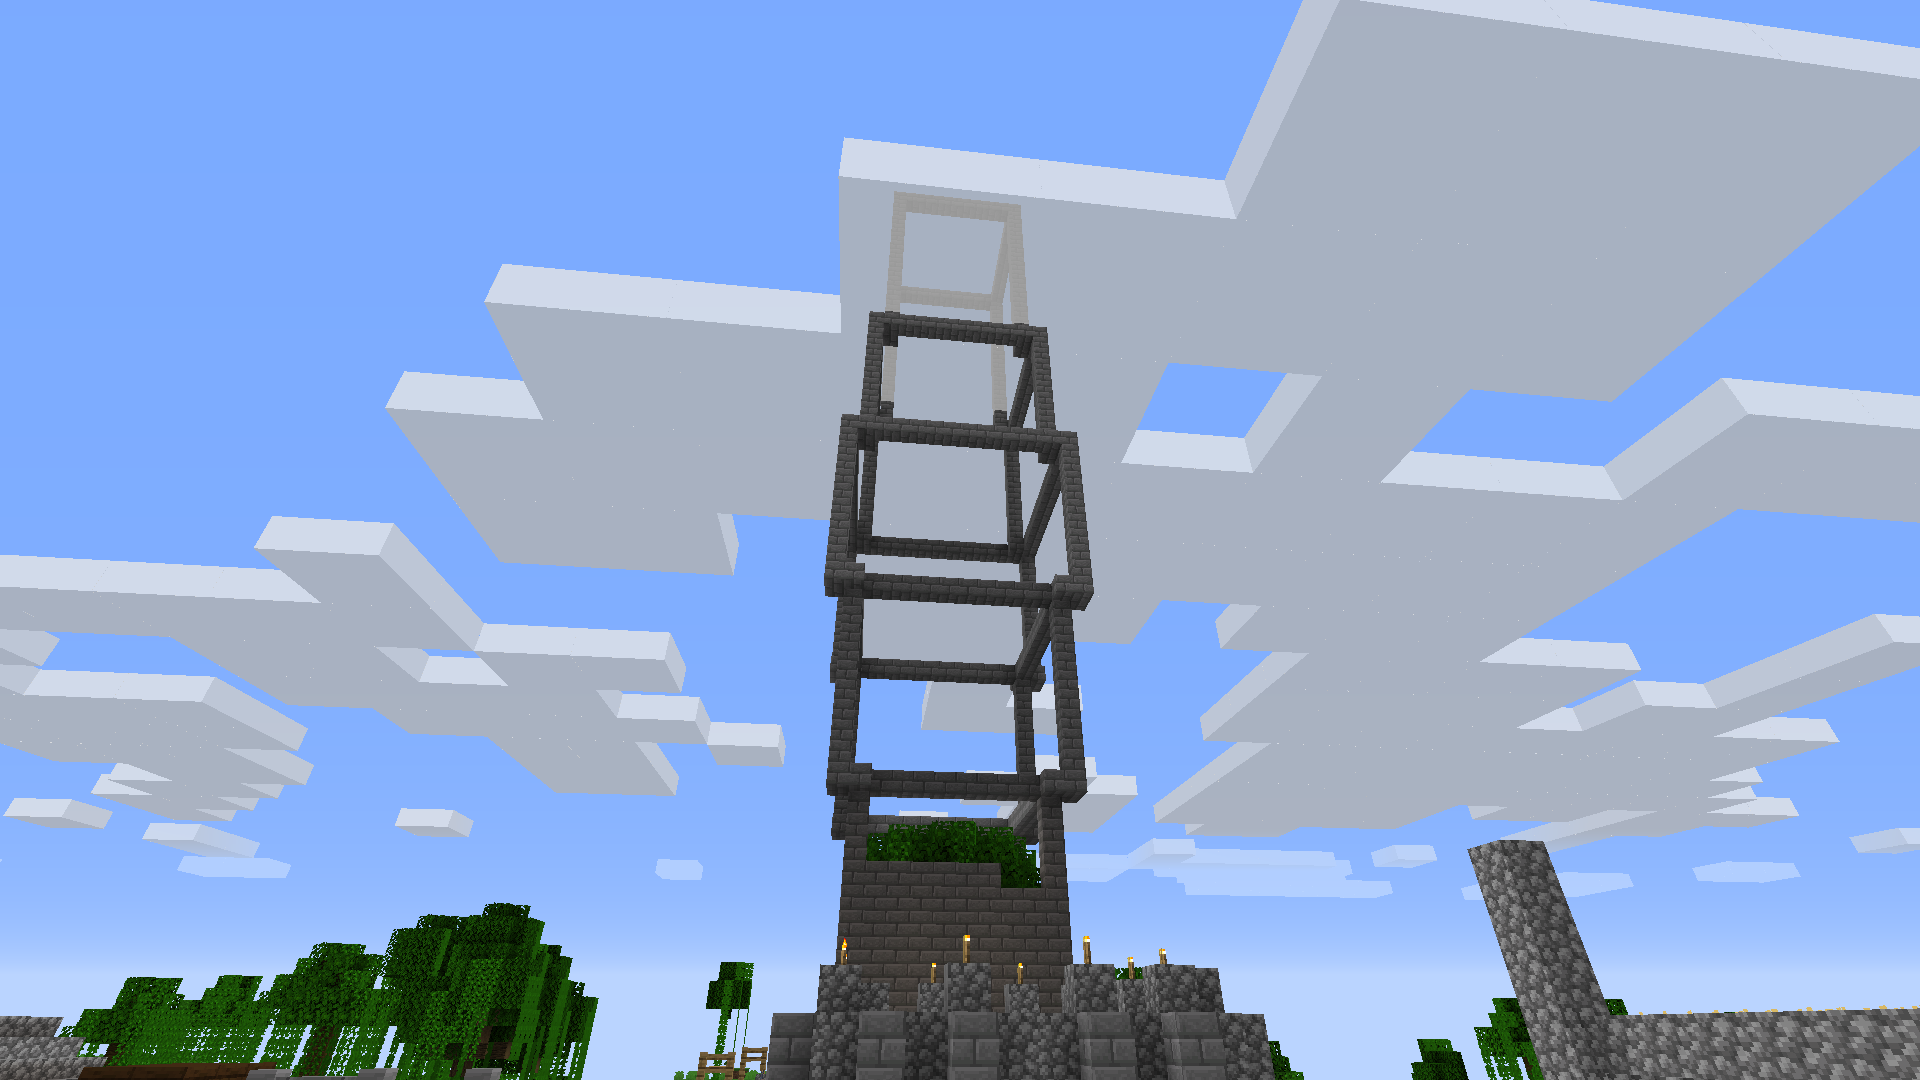
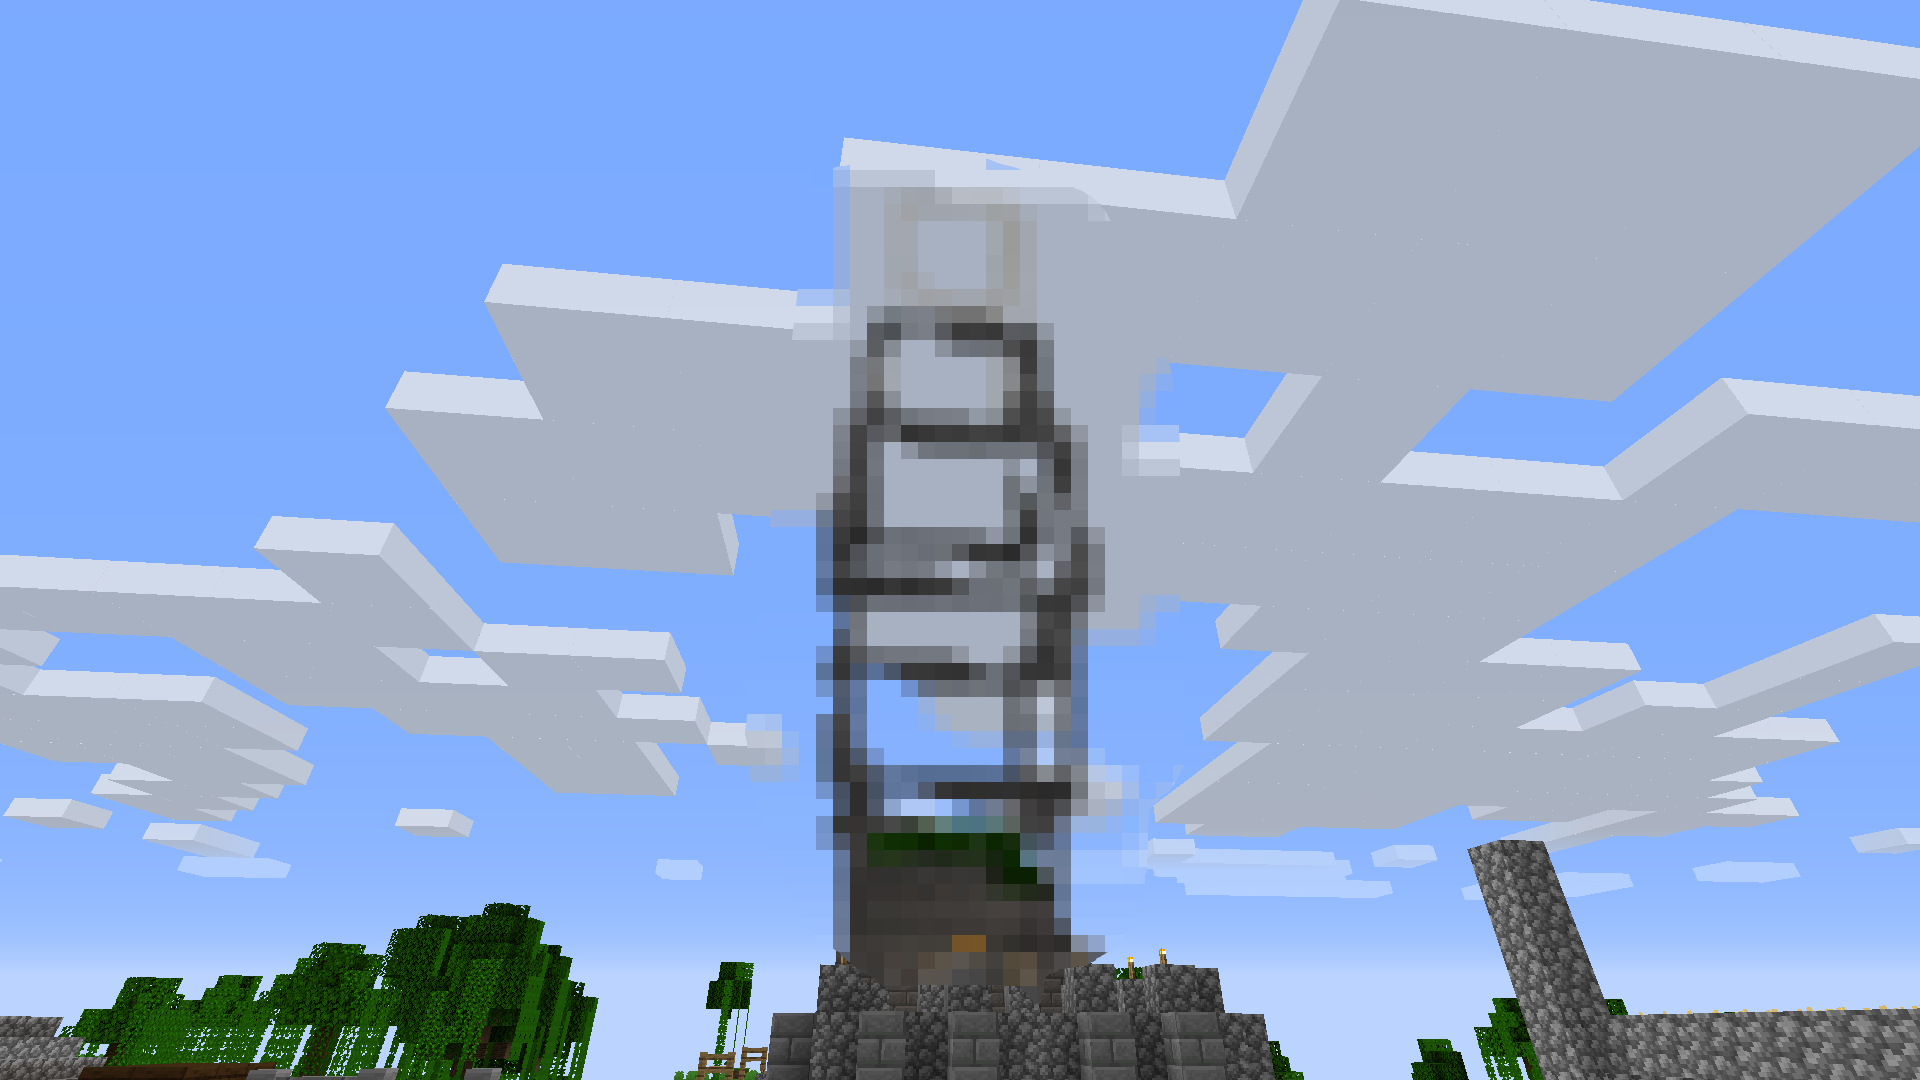
Add files via upload

Changed region(s): [[0.375, 0.1528, 0.625, 0.9167], [0.5, 0.1528, 0.5312, 0.1833]]

diff --git a/index.html b/index.html
@@ -1,5 +1,24 @@
+
+<!DOCTYPE html>
 <html>
+<head>
+<meta name="viewport" content="width=device-width, initial-scale=1">
+<style>
+body {
+  background-image: url("bg.png");
+}
+
+.content {
+  max-width: 750px;
+  margin: auto;
+  background: white;
+  padding: 10px;
+}
+</style>
+</head>
 <body>
+
+<div class="content" align=center>
 <h1>Builders Tower Construction Is Going Well!</h1>
 <img src=builderstower1.png height=350>
 <br>
@@ -12,5 +31,16 @@ on the overlooking, Mighty, Tower that we call Builders Tower!
 The creator, Surfy on 4/12/2020
 <bR>
 "It's pretty much a tower of my personality." Surfy Says.
+<br>
+<br>
+<br>
+<br>
+<img src="baseinside.png" height=100% width=100%>
+<br>
+<h1>Pictures of the inside of Builders Tower Are now illegal unless censored!</h1>
+<br>
+A recent meeting at the Herobrine Court has determined that and building of a certain height shall be censored in public photos. For the time being, Builders Tower has to be censored.
+<br>
+<img src="court.jpg" width=100%>
 </body>
 </html>
